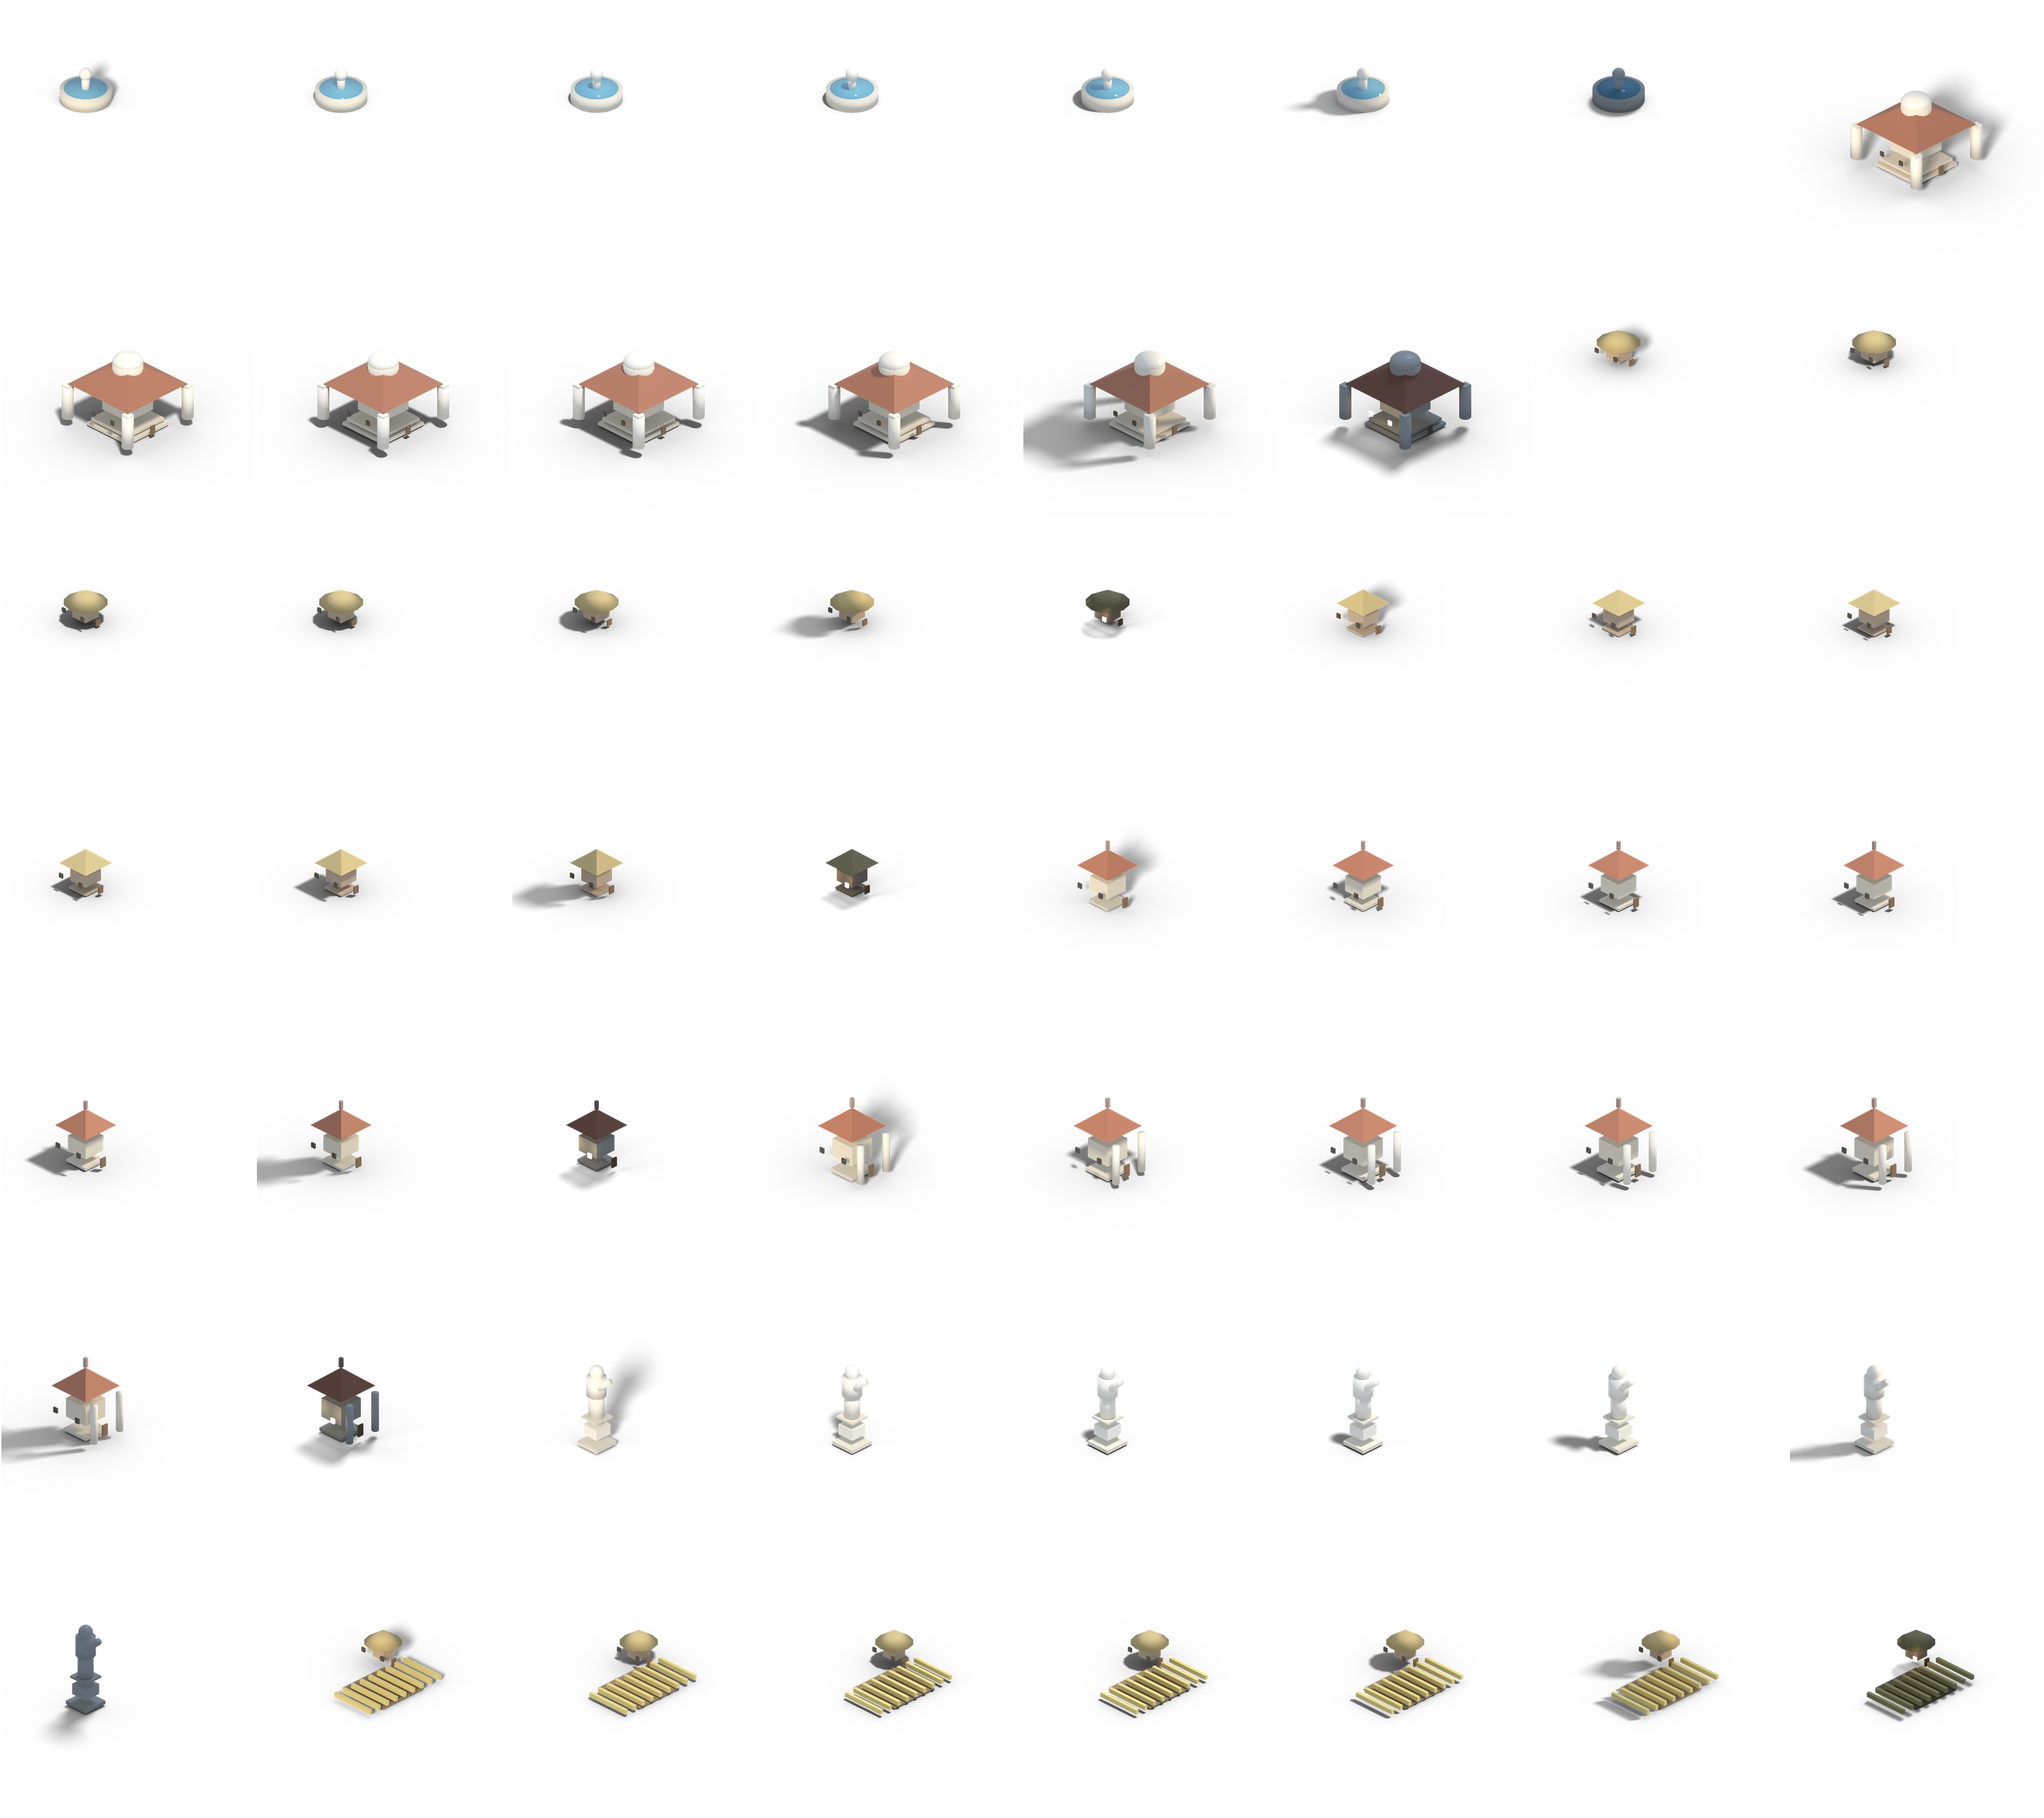
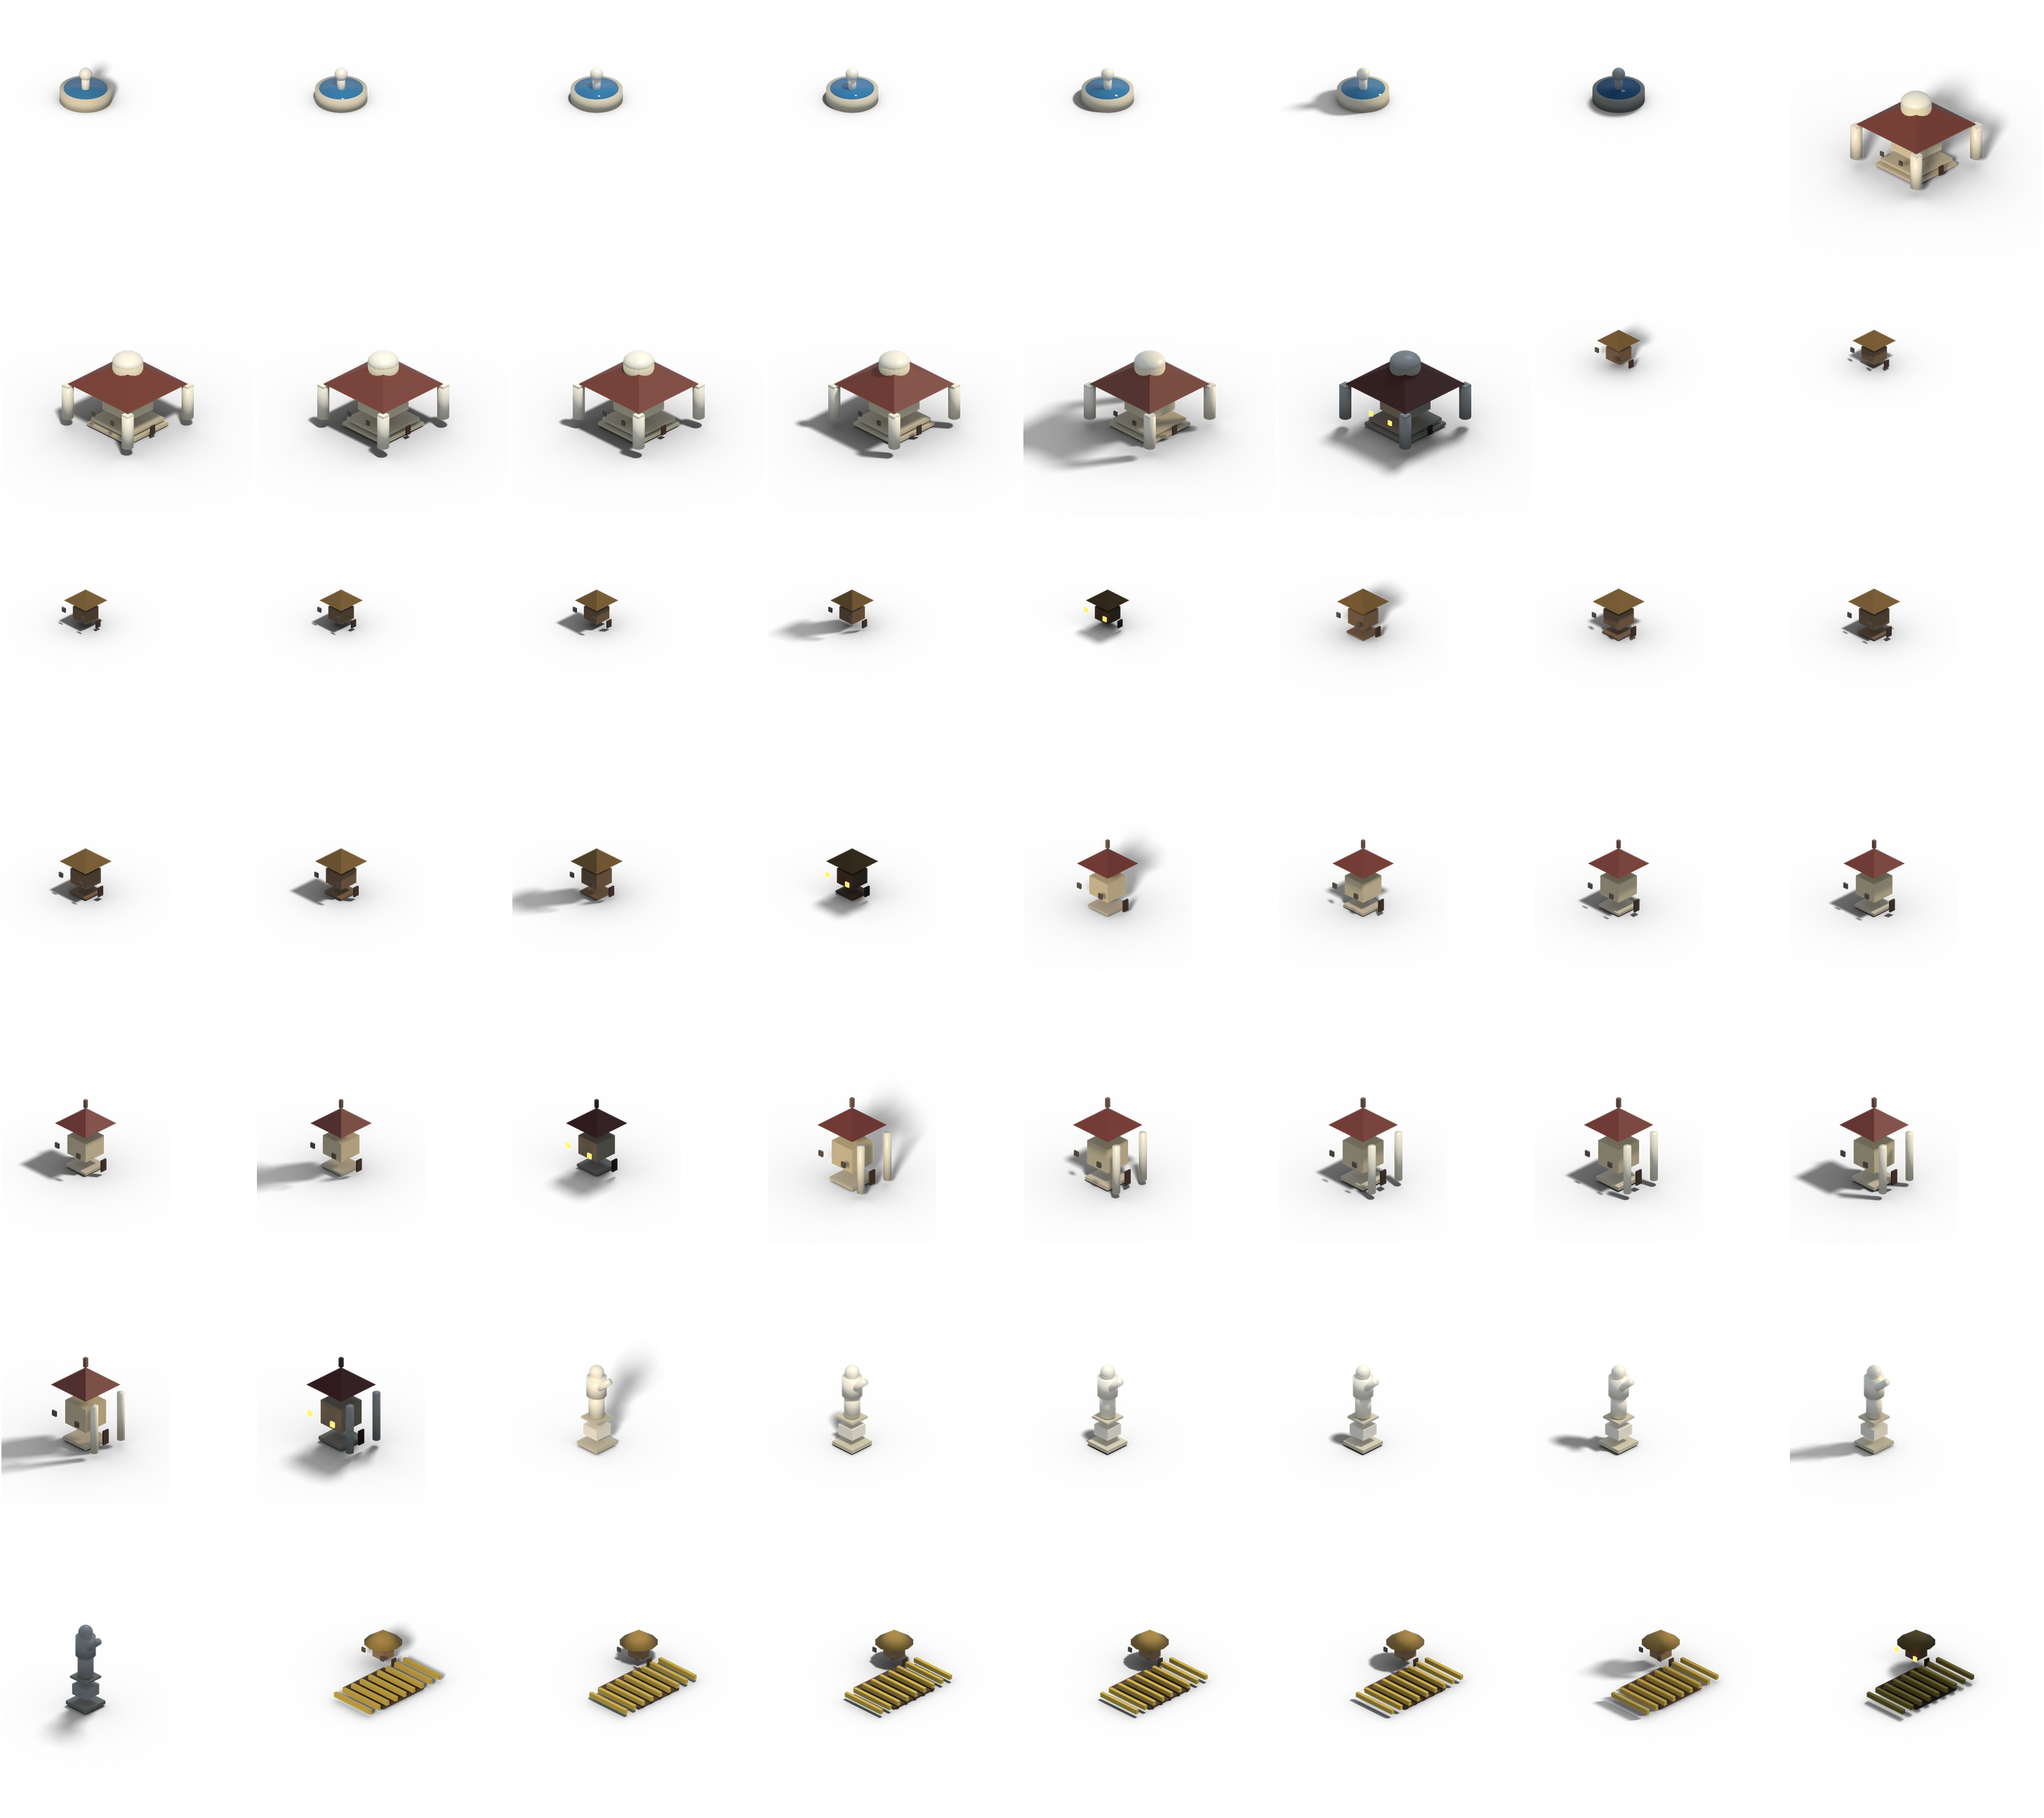
Correct linear colour, taller house walls, amber night windows, per-phase re-render

diff --git a/src/render/atmosphere.ts b/src/render/atmosphere.ts
@@ -88,10 +88,10 @@ function ambientFor(progress: number): Ambient {
     const nightProgress = (progress - DAYLIGHT_FRACTION) / (1 - DAYLIGHT_FRACTION);
     const depth = Math.sin(nightProgress * Math.PI);
     return {
-      red: 0.58 - 0.1 * depth,
-      green: 0.66 - 0.08 * depth,
-      blue: 0.92 - 0.04 * depth,
-      brightness: 0.66 - 0.12 * depth,
+      red: 0.72 - 0.08 * depth,
+      green: 0.74 - 0.06 * depth,
+      blue: 0.9 - 0.03 * depth,
+      brightness: 0.6 - 0.1 * depth,
     };
   }
 

diff --git a/pipeline/iso_render.py b/pipeline/iso_render.py
@@ -31,6 +31,7 @@ def parse_args():
     parser = argparse.ArgumentParser()
     parser.add_argument("--out", default="pipeline/out")
     parser.add_argument("--only", default="", help="comma-separated model names")
+    parser.add_argument("--phases", default="", help="comma-separated phase indices")
     return parser.parse_args(argv)
 
 
@@ -53,11 +54,18 @@ def clear_scene():
         scene.cycles.device = "CPU"
 
 
+def to_linear(channel):
+    if channel <= 0.04045:
+        return channel / 12.92
+    return ((channel + 0.055) / 1.055) ** 2.4
+
+
 def material(name, colour, roughness=0.8, metallic=0.0):
+    """Colours are given in sRGB, as picked; Blender wants linear."""
     mat = bpy.data.materials.new(name)
     mat.use_nodes = True
     bsdf = mat.node_tree.nodes["Principled BSDF"]
-    bsdf.inputs["Base Color"].default_value = (*colour, 1)
+    bsdf.inputs["Base Color"].default_value = (*[to_linear(c) for c in colour], 1)
     bsdf.inputs["Roughness"].default_value = roughness
     bsdf.inputs["Metallic"].default_value = metallic
     return mat
@@ -98,9 +106,9 @@ def window_material(night):
     mat.use_nodes = True
     bsdf = mat.node_tree.nodes["Principled BSDF"]
     if night:
-        bsdf.inputs["Base Color"].default_value = (1.0, 0.82, 0.52, 1)
-        bsdf.inputs["Emission Color"].default_value = (1.0, 0.78, 0.42, 1)
-        bsdf.inputs["Emission Strength"].default_value = 7.0
+        bsdf.inputs["Base Color"].default_value = (1.0, 0.42, 0.08, 1)
+        bsdf.inputs["Emission Color"].default_value = (1.0, 0.42, 0.08, 1)
+        bsdf.inputs["Emission Strength"].default_value = 2.0
     else:
         bsdf.inputs["Base Color"].default_value = (0.09, 0.07, 0.05, 1)
         bsdf.inputs["Roughness"].default_value = 0.4
@@ -363,17 +371,17 @@ def main():
     manifest_path = os.path.join(out_dir, "manifest.json")
     manifest = {"tileWidth": TILE_WIDTH, "tileHeight": TILE_HEIGHT, "supersample": SUPERSAMPLE, "sprites": []}
 
-    if args.only and os.path.exists(manifest_path):
+    names = args.only.split(",") if args.only else list(MODELS)
+    phases = [int(phase) for phase in args.phases.split(",")] if args.phases else list(range(SUN_PHASES + 1))
+    rebuilt = {f"{name}-{phase}.png" for name in names for phase in phases}
+
+    if len(rebuilt) < len(MODELS) * (SUN_PHASES + 1) and os.path.exists(manifest_path):
         with open(manifest_path) as handle:
             existing = json.load(handle)
-        rebuilt = set(args.only.split(","))
-        manifest["sprites"] = [
-            sprite for sprite in existing["sprites"] if sprite["file"].rsplit("-", 1)[0] not in rebuilt
-        ]
-    names = args.only.split(",") if args.only else list(MODELS)
+        manifest["sprites"] = [s for s in existing["sprites"] if s["file"] not in rebuilt]
 
     for name in names:
-        for phase in range(SUN_PHASES + 1):
+        for phase in phases:
             clear_scene()
             spec = MODELS[name](phase)
             add_ground()

diff --git a/README.md b/README.md
@@ -89,7 +89,17 @@ cursor lands on the surface you can actually see.
 ```bash
 npm run render   # Blender: renders each model at 4x across 7 sun phases
 npm run pack     # Pillow: downsamples, trims, packs, computes anchors
+
+# iterate on one thing without re-rendering the rest
+blender --background --python pipeline/iso_render.py -- --out pipeline/out \
+  --only house-2,granary --phases 6
 ```
+
+`--only` and `--phases` merge into the existing manifest, so a night-lighting tweak
+is seconds rather than minutes.
+
+Material colours are written in sRGB and converted to linear at the material
+boundary — passing sRGB straight to Blender is what makes renders look washed out.
 
 The camera is orthographic at yaw 45° and **elevation 30°** — the angle at which one
 tile step projects to exactly `TILE_WIDTH/2` across and `TILE_HEIGHT/2` down, so
